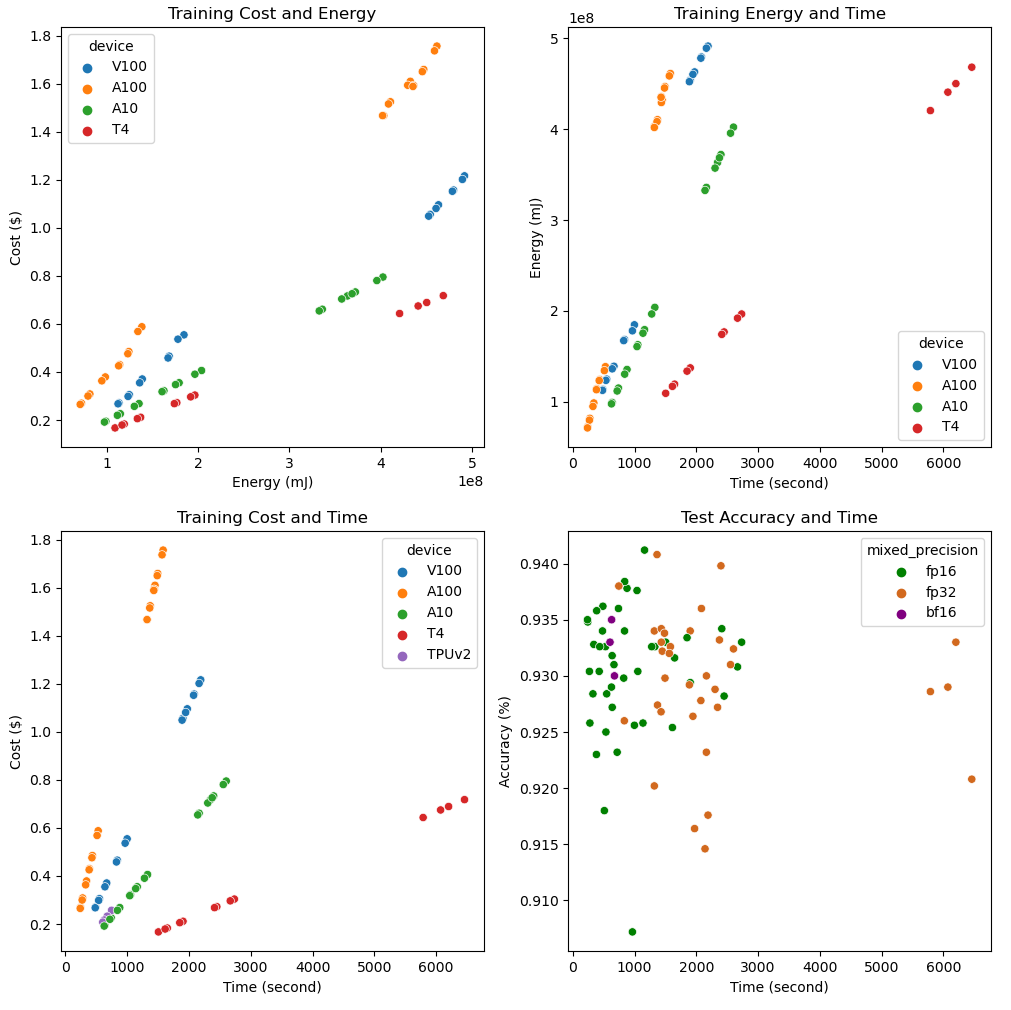
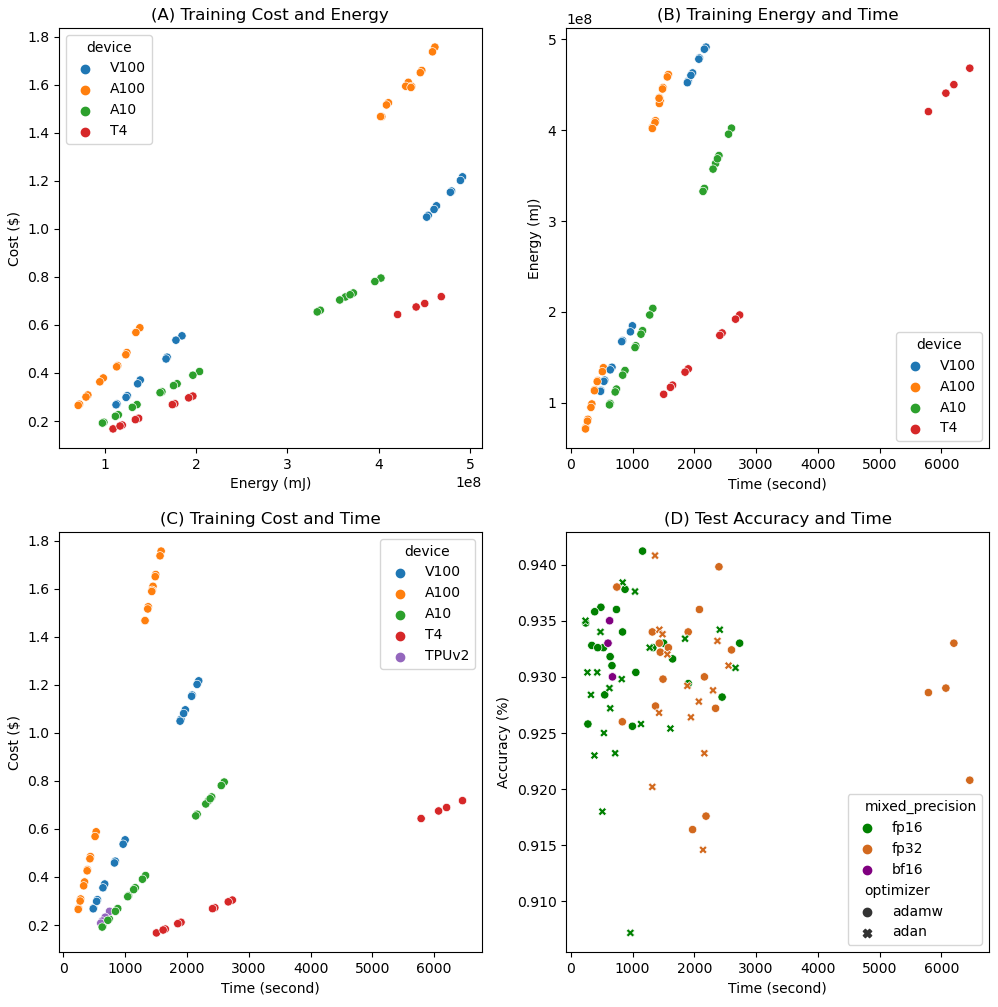
Update scripts

diff --git a/benchmark/systematic_graph.py b/benchmark/systematic_graph.py
@@ -8,7 +8,7 @@ df = pd.read_csv('profiling.csv')
 # optimizer,mixed_precision,module,batch_size,device,time,energy,accuracy
 # x axis is the time, y axis is the energy for all graphs
 markers = {'V100': 's', 'A100': 'o', 'A10': 'X'}
-optimizer = {'adamw': 'red', 'fused adan': 'blue'}
+optimizer = {'adamw': 'red', 'adan': 'blue'}
 mixed_precision = {'fp16': 'green', 'fp32': 'chocolate', 'bf16': 'purple'}
 module = {'lightseq': 'purple', 'huggingface': 'orange'}
 batch_size = {8: 'black', 16: 'pink', 32: 'brown'}
@@ -23,55 +23,61 @@ figs, ax = plt.subplots(2, 2, figsize=(12, 12))
 # 1st subplot, hue is optimizer
 ax[0, 1].set(xlabel='Time (second)', ylabel='Energy (mJ)')
 # subplot title
-ax[0, 1].set_title('Training Energy and Time')
+ax[0, 1].set_title('(B) Training Energy and Time')
 sns.scatterplot(data=df[df['device']!='TPUv2'], x='time', y='energy', hue='device', palette=device_color, ax=ax[0, 1])
 
-# 2nd boxplot, y is accuracy, x is time, hue is mixed_precision
+# 2nd boxplot, y is accuracy, x is time, hue is mixed_precision, shape is optimizer
 ax[1, 1].set(xlabel='Time (second)', ylabel='Accuracy (%)')
-ax[1, 1].set_title('Test Accuracy and Time')
-sns.scatterplot(data=df, x='time', y='accuracy', hue='mixed_precision', palette=mixed_precision, ax=ax[1, 1])
+ax[1, 1].set_title('(D) Test Accuracy and Time')
+sns.scatterplot(data=df, x='time', y='accuracy', hue='mixed_precision', palette=mixed_precision, ax=ax[1, 1], style='optimizer')
 
 # 3nd subplot, x is cost, y is time
 ax[1, 0].set(ylabel='Cost ($)', xlabel='Time (second)')
-ax[1, 0].set_title('Training Cost and Time')
+ax[1, 0].set_title('(C) Training Cost and Time')
 sns.scatterplot(data=df, y='cost', x='time', hue='device', palette=device_color, ax=ax[1, 0])
 
 # 4th subplot, x is cost, y is energy
 ax[0, 0].set(ylabel='Cost ($)', xlabel='Energy (mJ)')
-ax[0, 0].set_title('Training Cost and Energy')
+ax[0, 0].set_title('(A) Training Cost and Energy')
 sns.scatterplot(data=df[df['device']!='TPUv2'], y='cost', x='energy', hue='device', palette=device_color, ax=ax[0, 0])
 
 plt.savefig('overall_results.png')
 
-# new figure for {v100 lightseq fused adan, batch size=16, 32}, {A100 huggingface fused adan, batch size=16 32}
-fig, ax = plt.subplots(1, 1, figsize=(6, 6))
-ax.set(xlabel='Time (second)', ylabel='Energy (mJ)')
-ax.set_title('Software Optimization Energy and Time')
-df_1 = df[(df['device']=='V100') & (df['module']=='lightseq') & (df['optimizer']=='adan') & (df['batch_size']==16)]
-df_2 = df[(df['device']=='V100') & (df['module']=='lightseq') & (df['optimizer']=='adan') & (df['batch_size']==32)]
-df_3 = df[(df['device']=='A100') & (df['module']=='huggingface') & (df['optimizer']=='adan') & (df['batch_size']==16)]
-df_4 = df[(df['device']=='A100') & (df['module']=='huggingface') & (df['optimizer']=='adan') & (df['batch_size']==32)]
-# concat the dataframes
-df_new = pd.concat([df_1, df_2, df_3, df_4])
-# drop fp32
-df_new = df_new[df_new['mixed_precision']!='fp32']
-sns.scatterplot(data=df_new, x='time', y='energy', hue='device', palette=device_color, ax=ax)
-plt.savefig('Software_Optimization.png')
+# # new figure for {v100 lightseq fused adan, batch size=16, 32}, {A100 huggingface fused adan, batch size=16 32}
+# fig, ax = plt.subplots(1, 1, figsize=(6, 6))
+# ax.set(xlabel='Time (second)', ylabel='Energy (mJ)')
+# ax.set_title('Software Optimization Energy and Time')
+# df_1 = df[(df['device']=='V100') & (df['module']=='lightseq') & (df['optimizer']=='adan') & (df['batch_size']==16)]
+# df_2 = df[(df['device']=='V100') & (df['module']=='lightseq') & (df['optimizer']=='adan') & (df['batch_size']==32)]
+# df_3 = df[(df['device']=='A100') & (df['module']=='huggingface') & (df['optimizer']=='adan') & (df['batch_size']==16)]
+# df_4 = df[(df['device']=='A100') & (df['module']=='huggingface') & (df['optimizer']=='adan') & (df['batch_size']==32)]
+# # concat the dataframes
+# df_new = pd.concat([df_1, df_2, df_3, df_4])
+# # drop fp32
+# df_new = df_new[df_new['mixed_precision']!='fp32']
+# sns.scatterplot(data=df_new, x='time', y='energy', hue='device', palette=device_color, ax=ax)
+# plt.savefig('Software_Optimization.png')
 
-# new figure for mixed precision
-fig, ax = plt.subplots(1, 1, figsize=(6, 6))
-ax.set(xlabel='Time (second)', ylabel='Energy (mJ)')
-ax.set_title('Mixed Precision Energy and Time')
-sns.scatterplot(data=df[df['device']!='TPUv2'], x='time', y='energy', hue='device', palette=device_color, ax=ax, style='mixed_precision')
-plt.savefig('Mixed_Precision.png')
+# # new figure for mixed precision
+# fig, ax = plt.subplots(1, 1, figsize=(6, 6))
+# ax.set(xlabel='Time (second)', ylabel='Energy (mJ)')
+# ax.set_title('Mixed Precision Energy and Time')
+# sns.scatterplot(data=df[df['device']!='TPUv2'], x='time', y='energy', hue='device', palette=device_color, ax=ax, style='mixed_precision')
+# plt.savefig('Mixed_Precision.png')
 
-# new figure for different hardware on their best training time and cost
-fig, ax = plt.subplots(1, 1, figsize=(6, 6))
-ax.set(xlabel='Time (second)', ylabel='Cost ($)')
-ax.set_title('Best training time and cost for each device')
-# get rows of the best time for each device
-df_best_time = df.loc[df.groupby(['device'])['time'].idxmin()]
-sns.scatterplot(data=df_best_time, x='time', y='cost', hue='device', palette=device_color, ax=ax)
-plt.savefig('Best_Time_Cost.png')
+# # new figure for different hardware on their best training time and cost
+# fig, ax = plt.subplots(1, 1, figsize=(6, 6))
+# ax.set(xlabel='Time (second)', ylabel='Cost ($)')
+# ax.set_title('Best training time and cost for each device')
+# # get rows of the best time for each device
+# df_best_time = df.loc[df.groupby(['device'])['time'].idxmin()]
+# sns.scatterplot(data=df_best_time, x='time', y='cost', hue='device', palette=device_color, ax=ax)
+# plt.savefig('Best_Time_Cost.png')
 
+# # # new figure for different optimizer, x is time, y is accuracy
+# # fig, ax = plt.subplots(1, 1, figsize=(6, 6))
+# # ax.set(xlabel='Time (second)', ylabel='Accuracy (%)')
+# # ax.set_title('Optimizer Accuracy and Time')
+# # sns.scatterplot(data=df, x='time', y='accuracy', hue='optimizer', palette=optimizer, ax=ax)
+# # plt.savefig('Optimizer_Accuracy_Time.png')
 

diff --git a/benchmark/systematic.py b/benchmark/systematic.py
@@ -173,6 +173,8 @@ if __name__ == '__main__':
         args.max_batch_tokens = 8192
     elif args.batch_size == 32:
         args.max_batch_tokens = 16384
+    elif args.batch_size == 64:
+        args.max_batch_tokens = 32768
 
     torch.manual_seed(args.seed)
     transformers.set_seed(args.seed)
